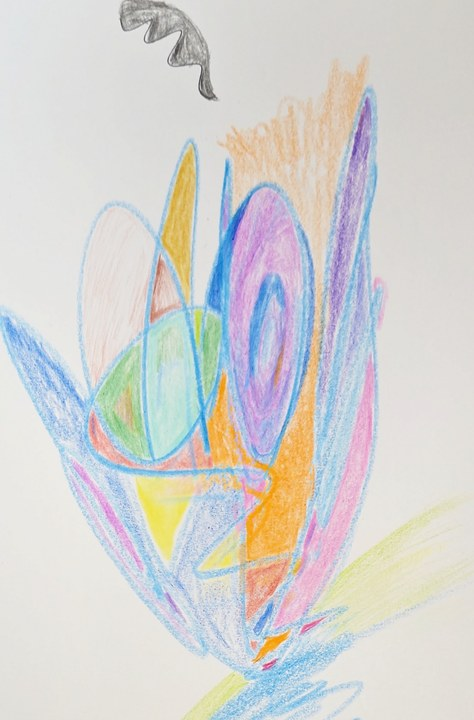
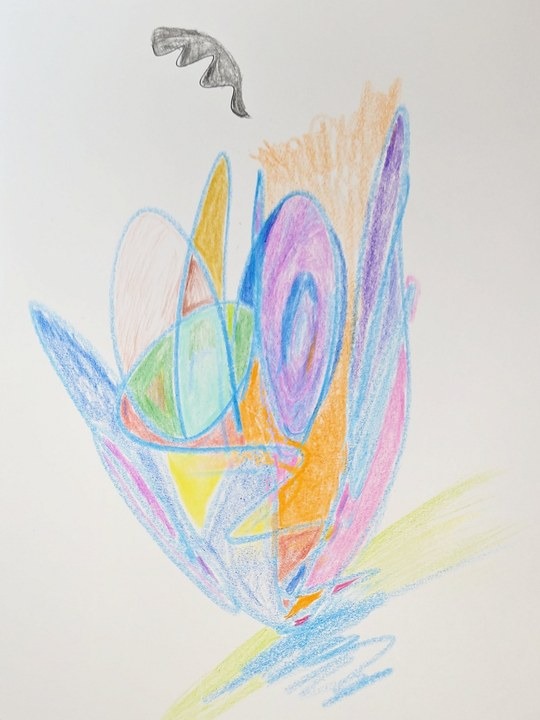
all variants: links bare at rest, underline on hover; full-frame self-portrait in strip

diff --git a/next/opt-a-letterhead-vertical.html b/next/opt-a-letterhead-vertical.html
@@ -52,9 +52,9 @@
     .film.vert img { height:7.2rem; width:auto; } .film.vert::before,.film.vert::after { left:0; right:0; top:.07rem; bottom:auto; width:auto; height:.42rem;
     background:repeating-linear-gradient(90deg,transparent 0 .55rem,#fff .55rem 1.05rem,transparent 1.05rem 1.45rem); } .film.vert::after { top:auto; bottom:.07rem; } }
 
-  /* quieter links: thin, pale underline; full ink only on hover */
-  a { text-decoration: underline; text-decoration-color: rgba(27,47,107,.32); text-decoration-thickness: 1px; text-underline-offset: .22em; }
-  a:hover { background: #1b2f6b; color: #fff; text-decoration: none; }
+  /* links: no underline at rest; a thin ink underline appears on hover */
+  a { text-decoration: none; }
+  a:hover { background: transparent; color: #1b2f6b; text-decoration: underline; text-decoration-thickness: 1px; text-underline-offset: .22em; }
 </style>
 </head>
 <body>

diff --git a/next/opt-k-postcard.html b/next/opt-k-postcard.html
@@ -56,9 +56,9 @@
   .back footer { grid-column:1 / -1; font-size:.8rem; color:var(--ink-2); }
   @media (max-width:720px) { .back { grid-template-columns:1fr; } .back .divider { display:none; } .back .addr { padding-top:1rem; } .back .postmark { display:none; } }
 
-  /* quieter links: thin, pale underline; full ink only on hover */
-  a { text-decoration: underline; text-decoration-color: rgba(27,47,107,.32); text-decoration-thickness: 1px; text-underline-offset: .22em; }
-  a:hover { background: #1b2f6b; color: #fff; text-decoration: none; }
+  /* links: no underline at rest; a thin ink underline appears on hover */
+  a { text-decoration: none; }
+  a:hover { background: transparent; color: #1b2f6b; text-decoration: underline; text-decoration-thickness: 1px; text-underline-offset: .22em; }
 </style>
 </head>
 <body>

diff --git a/next/bare-film.html b/next/bare-film.html
@@ -62,9 +62,9 @@
   hr { border: 0; border-top: 1px solid #1b2f6b; margin: 1.5rem 0; }
   footer { font-size: 0.85rem; }
   @media (max-width: 420px) { dl { grid-template-columns: 1fr; } dd { margin-bottom: .5rem; } .film img { width: 6.4rem; height: 9.6rem; } }
-  /* quieter links: thin, pale underline; full ink only on hover */
-  a { text-decoration: underline; text-decoration-color: rgba(27,47,107,.32); text-decoration-thickness: 1px; text-underline-offset: .22em; }
-  a:hover { background: #1b2f6b; color: #fff; text-decoration: none; }
+  /* links: no underline at rest; a thin ink underline appears on hover */
+  a { text-decoration: none; }
+  a:hover { background: transparent; color: #1b2f6b; text-decoration: underline; text-decoration-thickness: 1px; text-underline-offset: .22em; }
 </style>
 </head>
 <body>

diff --git a/next/opt-f-index-card.html b/next/opt-f-index-card.html
@@ -50,9 +50,9 @@
   .clip .film { transform:none; } .clip .film img { height:7.6rem; }
   @media (max-width:720px) { .card { margin-top:9rem; transform:none; } .clip { right:0; top:-7.5rem; transform:rotate(-2deg); } .clip .film img { height:5.6rem; } }
 
-  /* quieter links: thin, pale underline; full ink only on hover */
-  a { text-decoration: underline; text-decoration-color: rgba(27,47,107,.32); text-decoration-thickness: 1px; text-underline-offset: .22em; }
-  a:hover { background: #1b2f6b; color: #fff; text-decoration: none; }
+  /* links: no underline at rest; a thin ink underline appears on hover */
+  a { text-decoration: none; }
+  a:hover { background: transparent; color: #1b2f6b; text-decoration: underline; text-decoration-thickness: 1px; text-underline-offset: .22em; }
 </style>
 </head>
 <body>

diff --git a/next/opt-b-leader-frame.html b/next/opt-b-leader-frame.html
@@ -44,9 +44,9 @@
   .wash { position:absolute; right:-10rem; bottom:-3rem; width:24rem; z-index:-1; opacity:.3; mix-blend-mode:multiply; pointer-events:none; }
   @media (max-width:560px) { .film .leader { height:7.2rem; width:4.8rem; } }
 
-  /* quieter links: thin, pale underline; full ink only on hover */
-  a { text-decoration: underline; text-decoration-color: rgba(27,47,107,.32); text-decoration-thickness: 1px; text-underline-offset: .22em; }
-  a:hover { background: #1b2f6b; color: #fff; text-decoration: none; }
+  /* links: no underline at rest; a thin ink underline appears on hover */
+  a { text-decoration: none; }
+  a:hover { background: transparent; color: #1b2f6b; text-decoration: underline; text-decoration-thickness: 1px; text-underline-offset: .22em; }
 </style>
 </head>
 <body>

diff --git a/next/opt-e-watermark.html b/next/opt-e-watermark.html
@@ -42,9 +42,9 @@
   .mark { position:absolute; left:50%; top:16rem; width:30rem; margin-left:-15rem; z-index:-1; opacity:.06; pointer-events:none; }
   @media (max-width:560px) { .mark { width:20rem; margin-left:-10rem; top:12rem; } }
 
-  /* quieter links: thin, pale underline; full ink only on hover */
-  a { text-decoration: underline; text-decoration-color: rgba(27,47,107,.32); text-decoration-thickness: 1px; text-underline-offset: .22em; }
-  a:hover { background: #1b2f6b; color: #fff; text-decoration: none; }
+  /* links: no underline at rest; a thin ink underline appears on hover */
+  a { text-decoration: none; }
+  a:hover { background: transparent; color: #1b2f6b; text-decoration: underline; text-decoration-thickness: 1px; text-underline-offset: .22em; }
 </style>
 </head>
 <body>

diff --git a/next/opt-c2-head-strip.html b/next/opt-c2-head-strip.html
@@ -44,9 +44,9 @@
   footer { margin-top:2.4rem; color:var(--ink-2); }
   .wash { position:absolute; right:-10rem; bottom:-3rem; width:24rem; z-index:-1; opacity:.3; mix-blend-mode:multiply; pointer-events:none; }
 
-  /* quieter links: thin, pale underline; full ink only on hover */
-  a { text-decoration: underline; text-decoration-color: rgba(27,47,107,.32); text-decoration-thickness: 1px; text-underline-offset: .22em; }
-  a:hover { background: #1b2f6b; color: #fff; text-decoration: none; }
+  /* links: no underline at rest; a thin ink underline appears on hover */
+  a { text-decoration: none; }
+  a:hover { background: transparent; color: #1b2f6b; text-decoration: underline; text-decoration-thickness: 1px; text-underline-offset: .22em; }
 </style>
 </head>
 <body>

diff --git a/next/bare.html b/next/bare.html
@@ -37,9 +37,9 @@
   footer { font-size: 0.85rem; }
   .elsewhere { font-size: 0.82rem; }
   @media (max-width: 420px) { dl { grid-template-columns: 1fr; } dd { margin-bottom: .5rem; } header { flex-wrap: wrap; } }
-  /* quieter links: thin, pale underline; full ink only on hover */
-  a { text-decoration: underline; text-decoration-color: rgba(27,47,107,.32); text-decoration-thickness: 1px; text-underline-offset: .22em; }
-  a:hover { background: #1b2f6b; color: #fff; text-decoration: none; }
+  /* links: no underline at rest; a thin ink underline appears on hover */
+  a { text-decoration: none; }
+  a:hover { background: transparent; color: #1b2f6b; text-decoration: underline; text-decoration-thickness: 1px; text-underline-offset: .22em; }
 </style>
 </head>
 <body>

diff --git a/next/opt-g-darkroom.html b/next/opt-g-darkroom.html
@@ -49,9 +49,9 @@
   footer { color:#aab4d6; }
   .wash { position:absolute; right:-10rem; bottom:-3rem; width:24rem; z-index:-1; opacity:.22; mix-blend-mode:screen; filter:invert(1); pointer-events:none; }
 
-  /* quieter links: thin, pale underline; full ink only on hover */
-  a { text-decoration: underline; text-decoration-color: rgba(27,47,107,.32); text-decoration-thickness: 1px; text-underline-offset: .22em; }
-  a:hover { background: #1b2f6b; color: #fff; text-decoration: none; }
+  /* links: no underline at rest; a thin ink underline appears on hover */
+  a { text-decoration: none; }
+  a:hover { background: transparent; color: #1b2f6b; text-decoration: underline; text-decoration-thickness: 1px; text-underline-offset: .22em; }
 </style>
 </head>
 <body>

diff --git a/next/opt-d-masthead.html b/next/opt-d-masthead.html
@@ -45,9 +45,9 @@
   .film { transform:rotate(-1deg); }
   .wash { position:absolute; right:-10rem; bottom:-3rem; width:24rem; z-index:-1; opacity:.3; mix-blend-mode:multiply; pointer-events:none; }
 
-  /* quieter links: thin, pale underline; full ink only on hover */
-  a { text-decoration: underline; text-decoration-color: rgba(27,47,107,.32); text-decoration-thickness: 1px; text-underline-offset: .22em; }
-  a:hover { background: #1b2f6b; color: #fff; text-decoration: none; }
+  /* links: no underline at rest; a thin ink underline appears on hover */
+  a { text-decoration: none; }
+  a:hover { background: transparent; color: #1b2f6b; text-decoration: underline; text-decoration-thickness: 1px; text-underline-offset: .22em; }
 </style>
 </head>
 <body>

diff --git a/next/opt-c-stamp.html b/next/opt-c-stamp.html
@@ -44,9 +44,9 @@
   .sig footer { font-size:.85rem; }
   .wash { position:absolute; right:-10rem; bottom:-3rem; width:24rem; z-index:-1; opacity:.3; mix-blend-mode:multiply; pointer-events:none; }
 
-  /* quieter links: thin, pale underline; full ink only on hover */
-  a { text-decoration: underline; text-decoration-color: rgba(27,47,107,.32); text-decoration-thickness: 1px; text-underline-offset: .22em; }
-  a:hover { background: #1b2f6b; color: #fff; text-decoration: none; }
+  /* links: no underline at rest; a thin ink underline appears on hover */
+  a { text-decoration: none; }
+  a:hover { background: transparent; color: #1b2f6b; text-decoration: underline; text-decoration-thickness: 1px; text-underline-offset: .22em; }
 </style>
 </head>
 <body>

diff --git a/next/opt-i-colophon.html b/next/opt-i-colophon.html
@@ -51,9 +51,9 @@
   .plates .cap { text-align:center; font-size:.82rem; color:var(--ink-2); margin-top:1rem; }
   footer { text-align:center; color:var(--ink-2); margin-top:2.4rem; }
 
-  /* quieter links: thin, pale underline; full ink only on hover */
-  a { text-decoration: underline; text-decoration-color: rgba(27,47,107,.32); text-decoration-thickness: 1px; text-underline-offset: .22em; }
-  a:hover { background: #1b2f6b; color: #fff; text-decoration: none; }
+  /* links: no underline at rest; a thin ink underline appears on hover */
+  a { text-decoration: none; }
+  a:hover { background: transparent; color: #1b2f6b; text-decoration: underline; text-decoration-thickness: 1px; text-underline-offset: .22em; }
 </style>
 </head>
 <body>
